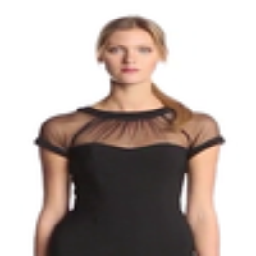
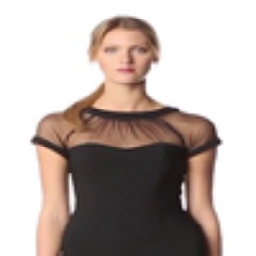
now flipping

Changed region(s): [[0.0938, 0.0625, 0.9062, 1.0]]

diff --git a/DataSet.py b/DataSet.py
@@ -208,8 +208,8 @@ class ReconstructDataSet(BaseDataSet):
                 flip_val = random.randint(0, 1)
             else:
                 flip_val = 0
-            flip_val = 0
-            
+            flip_val = 1
+
             transform_output = self._transform([image, class_image, body, class_body, foreground, class_foreground, IUV],
                                                     [False, False, True, True, True, True, True], crop_params = [i,j,h,w], to_flip = flip_val)
             data_name = ["image", "class_image", "body", "class_body", "foreground", "class_foreground", "IUV"]
